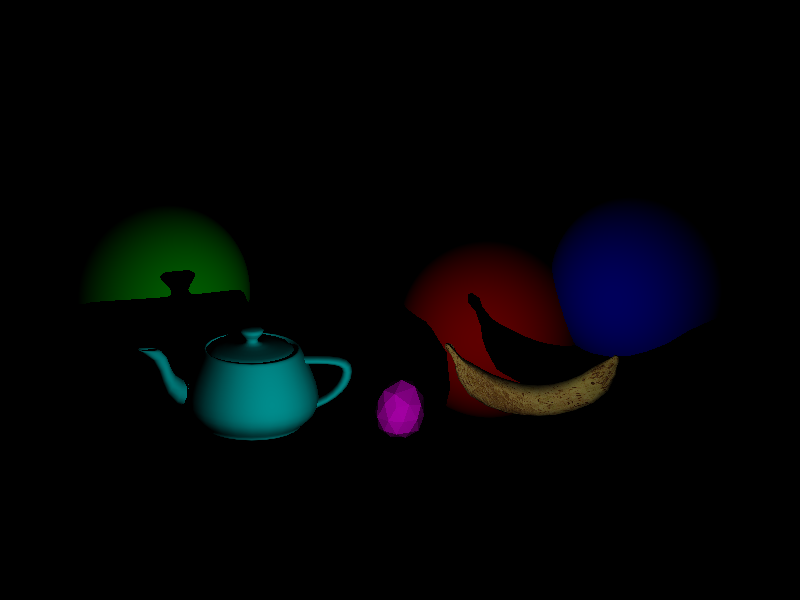
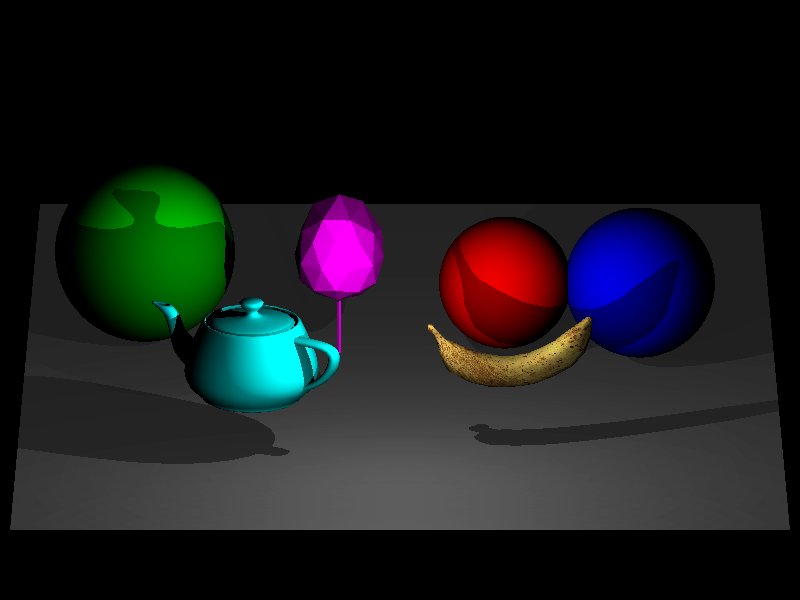
Plane and aesthetics addition

diff --git a/V.07/Main.java b/V.07/Main.java
@@ -42,30 +42,6 @@ public class Main {
                 // Values beyond these limits will make the objects seen by half or dissappear from the scene
 
 
-                // SHADOW FLAT SURFACE:
-                // Set a large and flat surface/plane to recieve the shadows; shadows cannot been seen in voids, like previous renders
-                // Two triangles forming a rectangle on the Y=-0.5 level (adjust Y to your scene)
-                // Made large enough to cover the area visible from the camera
-                // The plane will be made out of two rectangle triangles
-
-                // FLAT SURFACE COLOCATION IN PROGRESS... IT IS HARD TO SET A PLANE
-
-                /* 
-                scene.addObject(new TriangleIntersection(
-                new Vector3D(-4, -1.57,  4), // v0 vertex
-                new Vector3D( 4, -1.57,  4), // v1 vertex
-                new Vector3D( 4, -1.57, -4), // v2 vertex
-                Color.WHITE // color of the triangle
-                ));
-
-                scene.addObject(new TriangleIntersection(
-                new Vector3D(-4, -1.57,  4), // v0 vertex
-                new Vector3D( 4, -1.57, -4), // v1 vertex
-                new Vector3D(-4, -1.57, -4), // v2 vertex
-                Color.WHITE // color of the triangle
-                ));
-                */
-
                 // OBJECTS SETTINGS:
 
                 // Sphere(radio, center, color)
@@ -78,9 +54,9 @@ public class Main {
                 //     Z: depth. It should be between nearPlane and farPlane of the camera
                 //        With camera at Z=5 and objects at Z=0, t around 5 --> the sphere is inside the frustum
 
-                scene.addObject(new Sphere(0.3, new Vector3D(0.3, -0.51, -2.0), Color.RED)); // add a red sphere with its parameters
-                scene.addObject(new Sphere(0.3, new Vector3D(0.8, -0.35, -2.0), Color.BLUE)); // add a blue sphere with its parameters
-                scene.addObject(new Sphere(0.3, new Vector3D(-0.8, -0.38, -2.0), Color.GREEN)); // add a green sphere with its parameters
+                scene.addObject(new Sphere(0.22, new Vector3D(0.35, -0.35, -2.0), Color.RED)); // add a red sphere with its parameters
+                scene.addObject(new Sphere(0.25, new Vector3D(0.8, -0.35, -2.0), Color.BLUE)); // add a blue sphere with its parameters
+                scene.addObject(new Sphere(0.3, new Vector3D(-0.85, -0.35, -2.3), Color.GREEN)); // add a green sphere with its parameters
 
 
         // Triangle (v0, v1, v2, center, color)
@@ -99,10 +75,24 @@ public class Main {
         // Useful size: difference between vertices from 0.5 to 2.0 units
         // The triangle is defined in the direction: up -> down-left -> down-right
 
-                //scene.addObject(new TriangleIntersection(
-                //new Vector3D(0, 0.2, 0), new Vector3D(-0.3, -0.2, 0), new Vector3D(0.3, -0.2, 0), Color.CYAN));
+                // For some reason, to be able to put triangles, I have to initialize this first so the others can be visible
+                scene.addObject(new TriangleIntersection(
+                new Vector3D(0.0, 0.2, 10.0), new Vector3D(-0.3, -0.2, 10.0), new Vector3D(0.3, -0.2, 10.0), Color.BLACK));
 
 
+                // SHADOW FLAT SURFACE:
+                // Set a large and flat surface/plane to recieve the shadows; shadows cannot been seen in voids, like previous renders
+                // Two triangles forming a rectangle on the Y=-0.5 level (adjust Y to your scene)
+                // Made large enough to cover the area visible from the camera
+                // The plane will be made out of two rectangle triangles
+
+                // FLAT SURFACE COLOCATION IN PROGRESS... IT IS HARD TO SET A PLANE
+
+                scene.addObject(new TriangleIntersection(
+                new Vector3D(-1.2, -0.8, -4.0), new Vector3D(-1.3, -0.5, 0.0), new Vector3D(1.3, -0.5, 0.0), Color.DARK_GRAY));
+
+                scene.addObject(new TriangleIntersection(
+                new Vector3D(1.2, -0.8, -4.0), new Vector3D(-1.2, -0.8, -4.0), new Vector3D(1.3, -0.5, 0.0), Color.DARK_GRAY));
 
 
         // OBJ MODELS SETTINGS
@@ -142,9 +132,9 @@ public class Main {
         // 180° = it depends, but hopefully, looking towards the camera (-Z)
         // 270° = turned 90° to the left
 
-                Model3D modelCotton = new Model3D(new Vector3D(0.0, -0.3, -0.6), 0.5, 45.0, defaultCotton);
-                Model3D modelPot = new Model3D(new Vector3D(-0.5, -0.3, -1.0), 0.35, 180.0, defaultPot);
-                Model3D modelMonky = new Model3D(new Vector3D(0.42, -0.3, -1.0), 0.3, 90, defaultMonky);
+                Model3D modelCotton = new Model3D(new Vector3D(-0.2, -0.1, -1.6), 0.9, 85.0, defaultCotton);
+                Model3D modelPot = new Model3D(new Vector3D(-0.5, -0.2, -1.0), 0.35, 150.0, defaultPot);
+                Model3D modelMonky = new Model3D(new Vector3D(0.35, -0.2, -1.0), 0.3, 110, defaultMonky);
 
                 // Requirements: 
                 // List of triangles (the default model of ObjReader)
@@ -171,17 +161,16 @@ public class Main {
                 //scene.addLight(new LightLambertian(new Vector3D(0.0, 2.0, 3.0), Color.WHITE, 1.0));
                 //scene.addLight(new Light(new Vector3D(3.0, -7.0, 2.0), Color.WHITE, 1.0));
 
-                //scene.addLight(new LightLambertian(new Vector3D(4.0, 5.0, 8.0), Color.WHITE, 1.0));
+                //scene.addLight(new LightLambertian(new Vector3D(0.0, 1.0, -1.0), Color.WHITE, 1.0));
                 //scene.addLight(new LightPhong(new Vector3D(0.0, 3.0, 4.0), Color.WHITE, 1.0, 40.0));
+                scene.addLight(new LightPhong(new Vector3D(0.0, 7.0, 0.5), Color.WHITE, 0.5, 40.0));
                 scene.addLight(new LightPoint(null, Color.WHITE, 1.0, new Vector3D(0.0, 0.0, 0.5)));
+                scene.addLight(new LightPoint(null, Color.WHITE, 1.0, new Vector3D(0.0, 0.2, -0.7)));
 
 
                 // The direction of the light will be normalized, the values mean that the light comes from the upper front of the scene 
                 // (from user to the far away, and from up to down)
-                // The color of the light is WHITE, its intensity is at max (drastic difference in lights/shadows)
-
-
-                
+                // The color of the light is WHITE, its intensity is at max (drastic difference in lights/shadows)                
 
 
                 // Builds the Bounding Volume Hierarchy with ALL the triangles that are already added
